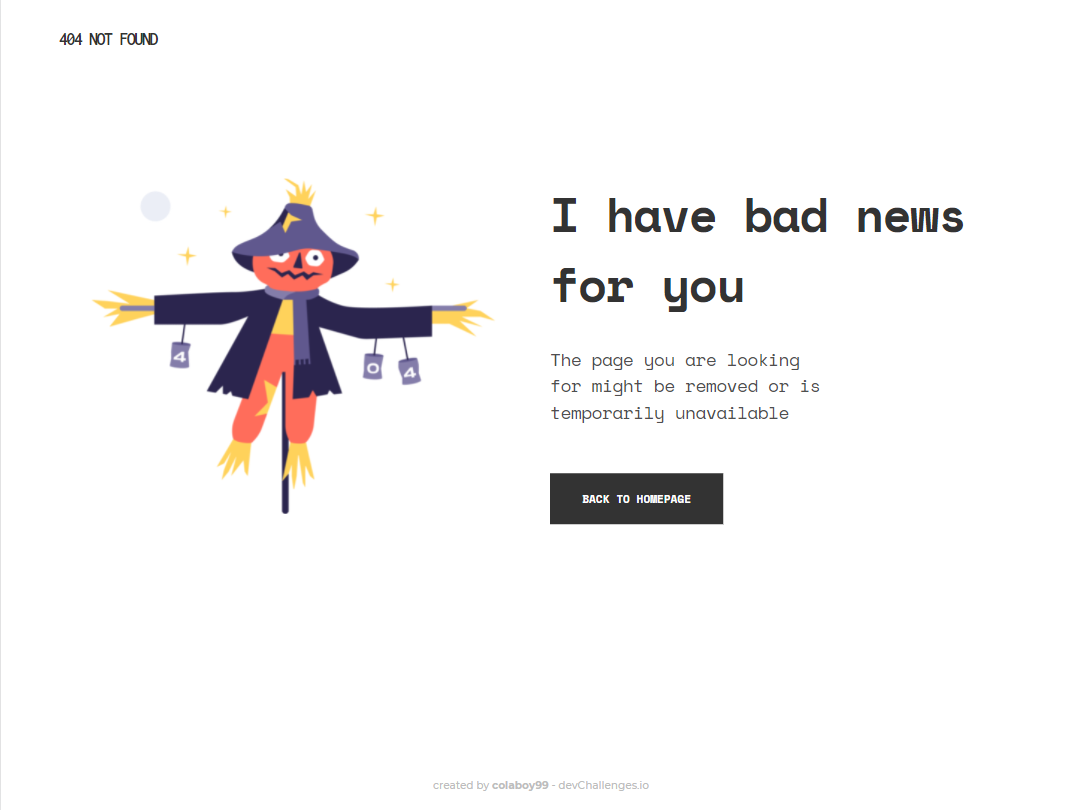
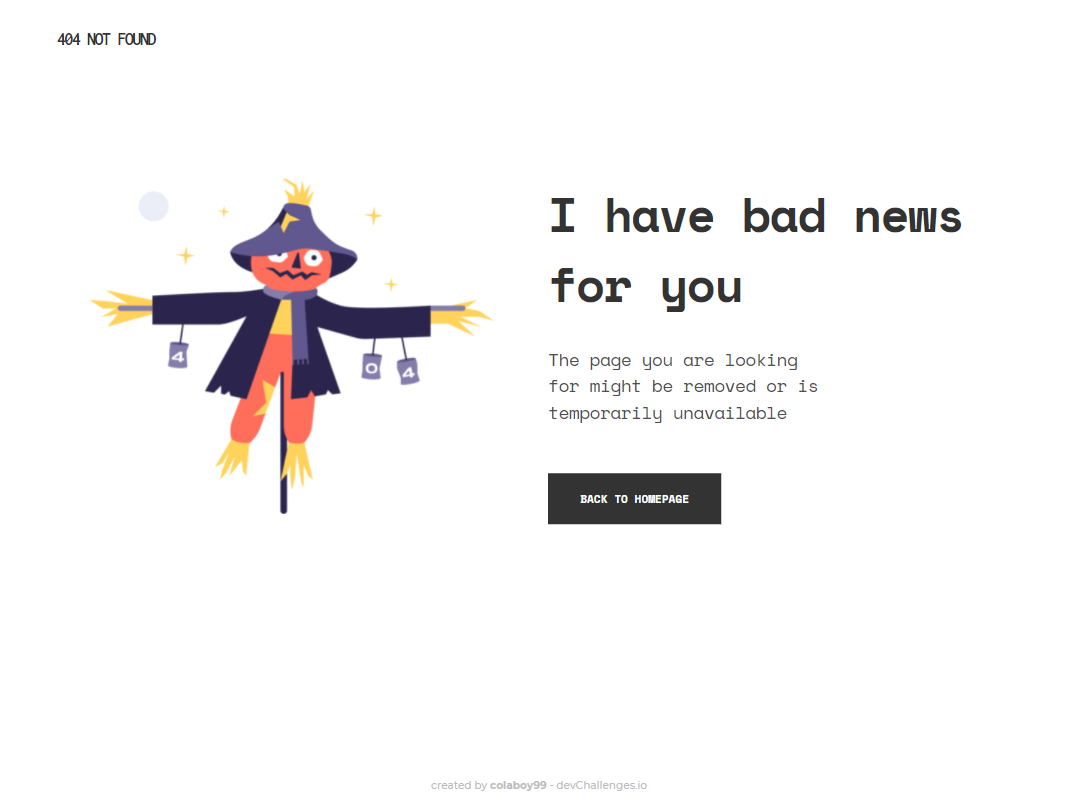
Update Css

diff --git a/style.css b/style.css
@@ -52,12 +52,16 @@ main {
 }
 
 main .content-image {
+  height: 100%;
   display: flex;
   justify-content: center;
+  align-items: center;
 }
 
 main .content-image img {
-  height: 238px;
+  display: block;
+  width: 70%;
+  max-width: 539px;
 }
 
 main .content-title {
@@ -113,10 +117,6 @@ footer .footer-title {
   margin: 0;
 }
 
-footer .footer-author {
-  font-weight: 700;
-}
-
 /* -------------------- */
 /* Media Queries */
 /* -------------------- */
@@ -128,7 +128,7 @@ footer .footer-author {
   }
 
   main .content-image img {
-    height: 290px;
+    width: 100%;
   }
 
   main .content-title {
@@ -156,7 +156,8 @@ footer .footer-author {
   header {
     margin-bottom: 125px;
   }
-  main .content-image img {
-    height: 447px;
+
+  main .content-image {
+    align-items: flex-start;
   }
 }

diff --git a/index.html b/index.html
@@ -39,7 +39,7 @@
     </main>
     <footer>
       <p class="footer-title">
-        created by <span class="footer-author">colaboy99</span> -
+        created by <strong>colaboy99</strong> -
         devChallenges.io
       </p>
     </footer>
